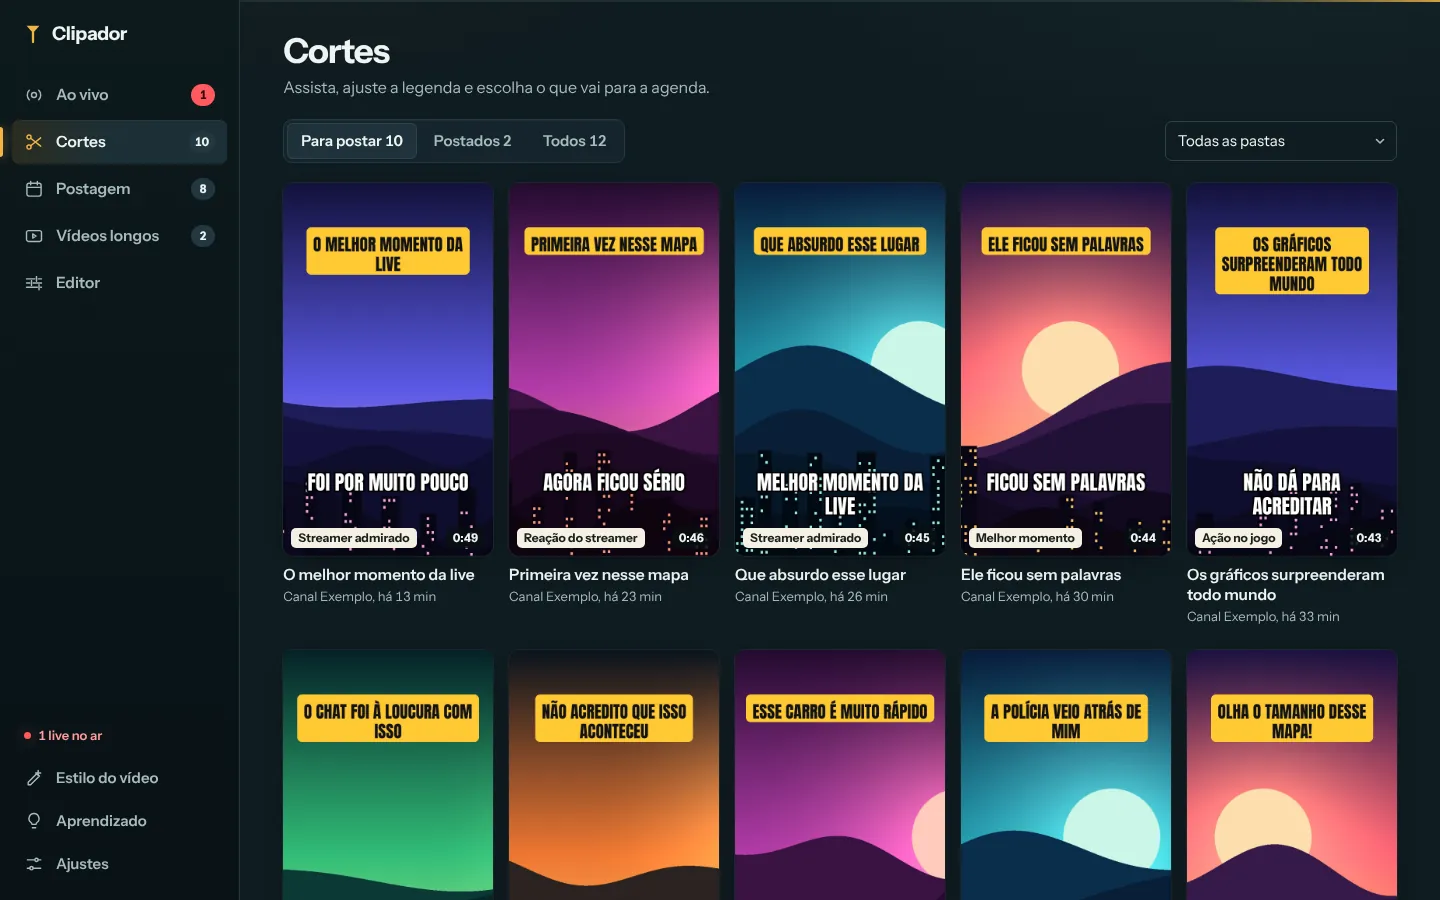
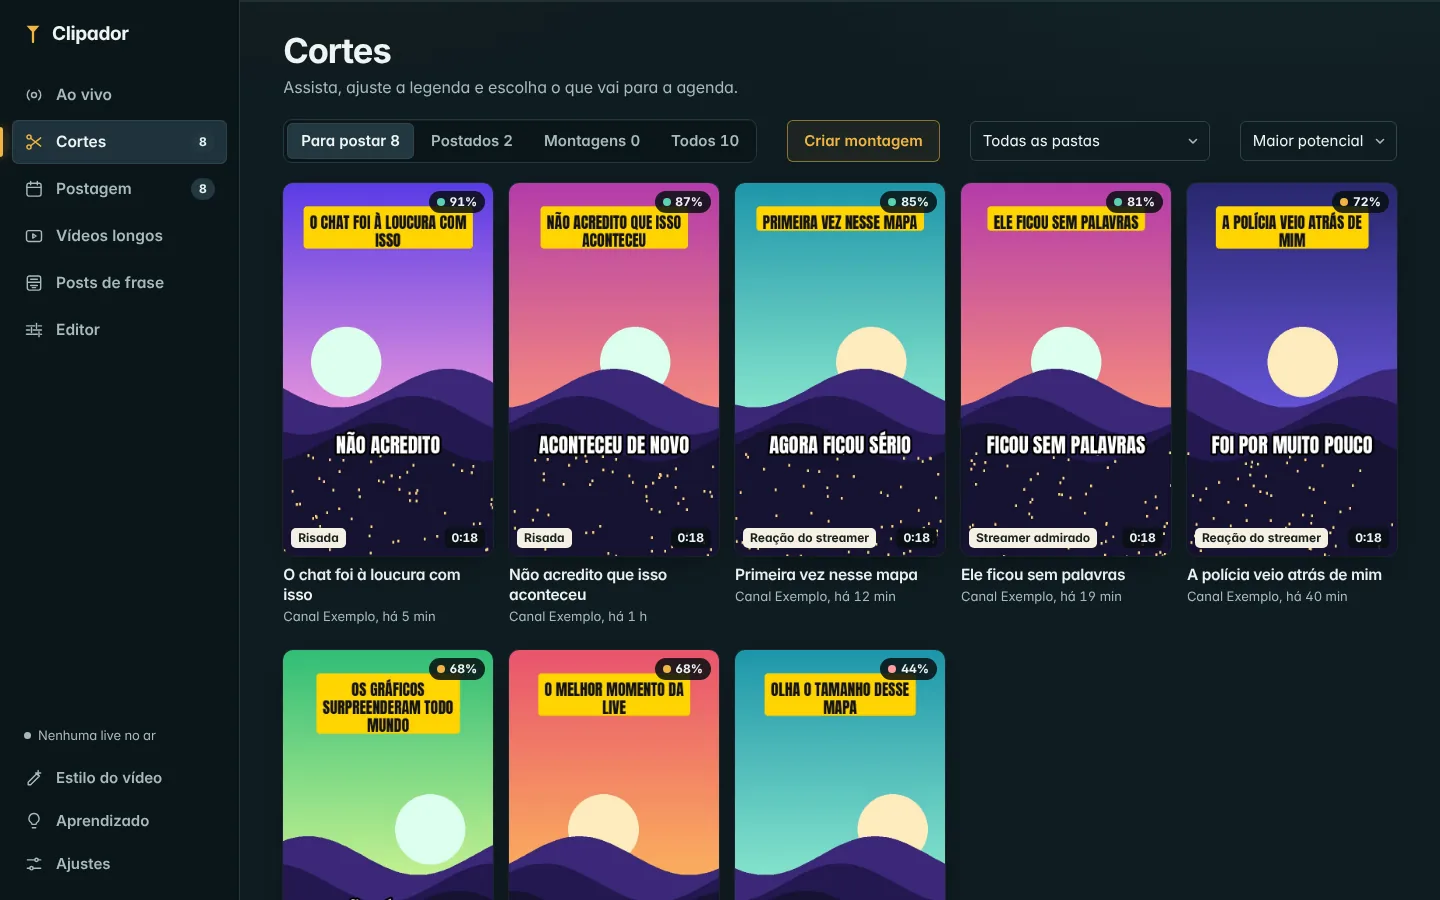
Clipador 1.11.0

diff --git a/site/index.html b/site/index.html
@@ -4,7 +4,7 @@
 <meta charset="utf-8">
 <meta name="viewport" content="width=device-width, initial-scale=1">
 <title>Clipador: cortes prontos enquanto a live acontece</title>
-<meta name="description" content="Programa para Windows que acompanha lives, encontra os melhores momentos e entrega Shorts e vídeos longos editados.">
+<meta name="description" content="Programa para Windows que acompanha lives, encontra os melhores momentos, diz quais cortes têm mais potencial de viralizar e entrega Shorts e vídeos longos editados.">
 <meta property="og:title" content="Clipador">
 <meta property="og:description" content="Cortes prontos enquanto a live acontece.">
 <meta property="og:image" content="https://inoval-dev.github.io/banner.jpg">
@@ -53,7 +53,7 @@ if (!matchMedia("(prefers-reduced-motion: reduce)").matches) document.documentEl
     <p class="sub">O Clipador acompanha a transmissão, encontra os melhores momentos e entrega Shorts e vídeos longos editados.</p>
     <div class="acoes">
       <a class="botao" href="#baixar">Baixar para Windows</a>
-      <span class="versao-linha">Versão <b data-versao>1.4.0</b>, para Windows 10 e 11</span>
+      <span class="versao-linha">Versão <b data-versao>1.11.0</b>, para Windows 10 e 11</span>
     </div>
     </div>
 
@@ -69,10 +69,10 @@ if (!matchMedia("(prefers-reduced-motion: reduce)").matches) document.documentEl
   </section>
 
   <section class="numeros" id="numeros" aria-label="O que vem no programa">
-    <p><b data-n="16">16</b><span>transições</span></p>
-    <p><b data-n="16">16</b><span>efeitos de texto</span></p>
-    <p><b data-n="12">12</b><span>modelos de legenda</span></p>
-    <p><b data-n="86">86</b><span>efeitos sonoros</span></p>
+    <p><b data-n="28">28</b><span>transições</span></p>
+    <p><b data-n="14">14</b><span>efeitos de texto</span></p>
+    <p><b data-n="22">22</b><span>modelos de legenda</span></p>
+    <p><b data-n="108">108</b><span>efeitos sonoros</span></p>
     <p><b data-n="44">44</b><span>fontes</span></p>
   </section>
 
@@ -80,8 +80,8 @@ if (!matchMedia("(prefers-reduced-motion: reduce)").matches) document.documentEl
     <h2 class="sobe" id="passos-t">Da live ao Short em três passos</h2>
     <ol>
       <li><b>Escolha o vídeo</b><span>Cole o link da live no Kick, Twitch, YouTube ou X, ou envie um arquivo do computador.</span></li>
-      <li><b>O Clipador corta</b><span>Ele avalia a voz, o chat e a ação na tela, e fecha cada corte no fim do assunto.</span></li>
-      <li><b>Você revisa e posta</b><span>Ajuste o que quiser no editor e coloque os Shorts na agenda do YouTube.</span></li>
+      <li><b>O Clipador corta</b><span>Ele avalia a voz, o chat e a ação na tela, começa no começo do assunto e só termina quando a história acaba.</span></li>
+      <li><b>Você revisa e posta</b><span>Cada corte vem com o potencial de viralizar. Poste primeiro os melhores e coloque o resto na agenda do YouTube.</span></li>
     </ol>
   </section>
 
@@ -92,7 +92,15 @@ if (!matchMedia("(prefers-reduced-motion: reduce)").matches) document.documentEl
         <img src="ao-vivo.webp" width="1440" height="900" loading="lazy" alt="Painel ao vivo com gráfico de momentos e chat">
       </article>
       <article>
-        <h2>Edite como em um programa profissional</h2><p>Timeline com várias faixas, 16 transições, atalhos de teclado e prévia no seu vídeo antes de aplicar.</p>
+        <h2>Saiba o que postar primeiro</h2><p>Cada corte ganha uma nota de potencial de viralizar, com o motivo: a reação da live, o gancho dos primeiros segundos, se a história está completa e o ritmo. As dicas mostram o que mudar antes de postar.</p>
+        <img src="potencial.webp" width="1440" height="900" loading="lazy" alt="Janela do corte com o potencial de viralizar e a nota de cada parte">
+      </article>
+      <article>
+        <h2>Aprende o que funciona no seu canal</h2><p>O Clipador testa jeitos diferentes de editar, como a câmera dinâmica que mostra o jogo na ação e o rosto do streamer na reação. O que você posta e o que dá mais visualizações passa a aparecer mais.</p>
+        <img src="ideias.webp" width="1440" height="900" loading="lazy" alt="Janela Aprendizado com as ideias de edição em teste e os resultados de cada uma">
+      </article>
+      <article>
+        <h2>Edite como em um programa profissional</h2><p>Timeline com várias faixas, 28 transições, efeitos de voz, legenda que segue quem fala e prévia no seu vídeo antes de aplicar.</p>
         <img src="transicoes.webp" width="1440" height="900" loading="lazy" alt="Editor do Clipador com transições na timeline">
       </article>
       <article>
@@ -107,6 +115,8 @@ if (!matchMedia("(prefers-reduced-motion: reduce)").matches) document.documentEl
     <div class="palco" aria-hidden="true">
       <div class="monitor" id="monitor">
         <img src="ao-vivo.webp" width="1440" height="900" loading="lazy" alt="">
+        <img src="potencial.webp" width="1440" height="900" loading="lazy" alt="">
+        <img src="ideias.webp" width="1440" height="900" loading="lazy" alt="">
         <img src="transicoes.webp" width="1440" height="900" loading="lazy" alt="">
         <img src="efeitos.webp" width="1440" height="900" loading="lazy" alt="">
         <img src="postagem.webp" width="1440" height="900" loading="lazy" alt="">
@@ -118,9 +128,11 @@ if (!matchMedia("(prefers-reduced-motion: reduce)").matches) document.documentEl
   <section class="versoes" id="versoes" aria-labelledby="versoes-t">
     <h2 class="sobe" id="versoes-t">Versões</h2>
     <ol id="linha-versoes">
-      <li><h3>1.4.0 <small>Atual, novembro de 2026</small></h3><p>Corte de vídeos enviados do computador, prévia antes de aplicar, painel de transições, efeitos em textos e legendas, e blocos que se movem arrastando na timeline.</p></li>
-      <li><h3>1.3.0 <small>Novembro de 2026</small></h3><p>Visual renovado, vídeo que toca ao passar o mouse e detecção mais confiável das lives do YouTube.</p></li>
-      <li><h3>1.2.0 <small>Novembro de 2026</small></h3><p>Vídeos longos com abertura forte, novas transições e fontes, cortes que respeitam o assunto e aprendizado com as suas edições.</p></li>
+      <li><h3>1.11.0 <small>Atual, novembro de 2026</small></h3><p>Ideias de edição em teste: o Clipador compara jeitos de editar e usa mais o que você posta e o que dá mais visualizações.</p></li>
+      <li><h3>1.10.0 <small>Novembro de 2026</small></h3><p>Câmera dinâmica, que mostra o jogo na ação e o rosto do streamer de perto na reação, legenda React e o seu @ no vídeo e no final.</p></li>
+      <li><h3>1.9.2 <small>Novembro de 2026</small></h3><p>Potencial de viralizar em cada corte, com o motivo da nota e dicas do que mudar.</p></li>
+      <li><h3>1.9.1 <small>Novembro de 2026</small></h3><p>Cortes com começo, meio e fim, posts de frase para o feed e os stories, e câmera que segue quem está falando.</p></li>
+      <li><h3>1.9.0 <small>Novembro de 2026</small></h3><p>Editor renovado, com miniaturas na timeline, efeitos de voz, filtros, exportação para outros editores e tradução de legendas.</p></li>
     </ol>
   </section>
 
@@ -128,7 +140,7 @@ if (!matchMedia("(prefers-reduced-motion: reduce)").matches) document.documentEl
     <div>
       <h2 id="baixar-t">Baixe o Clipador</h2>
       <p>O download está liberado para quem recebeu o convite por e-mail. Com a conta do GitHub convidada aberta neste navegador, o instalador começa a baixar na hora.</p>
-      <a class="botao" href="https://github.com/inovaL-dev/clipador/releases/latest/download/Clipador-Instalador.exe">Baixar a versão <span data-versao>1.4.0</span></a>
+      <a class="botao" href="https://github.com/inovaL-dev/clipador/releases/latest/download/Clipador-Instalador.exe">Baixar a versão <span data-versao>1.11.0</span></a>
       <p class="nota">Se aparecer "Página não encontrada", sua conta ainda não tem acesso.</p>
     </div>
     <dl>
